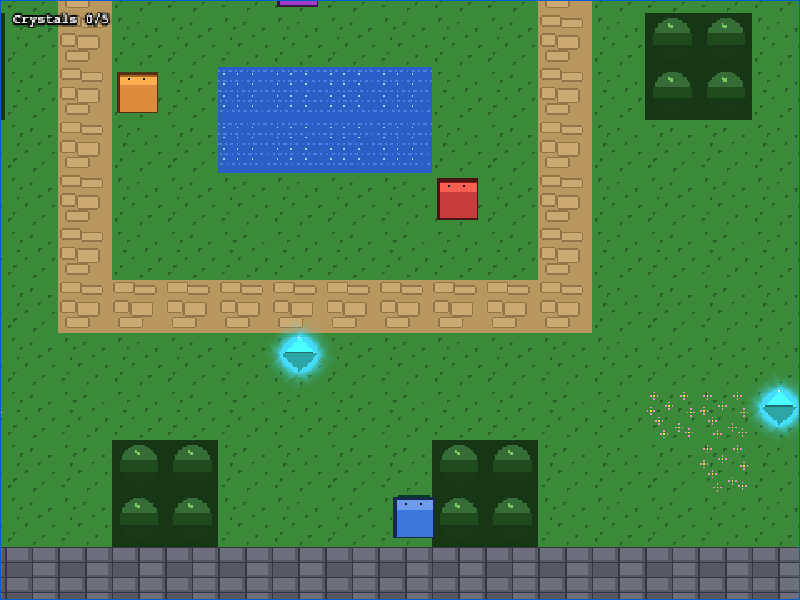
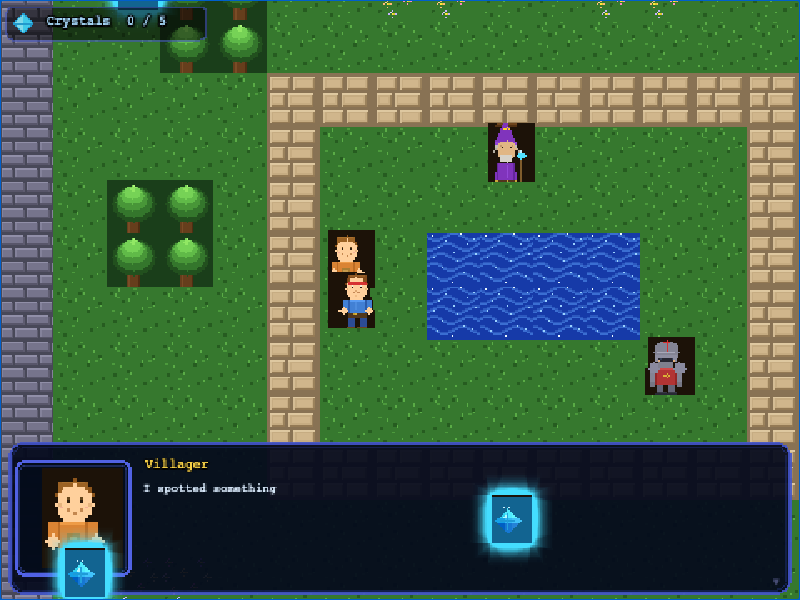
docs: update crystal-village screenshot to show portrait dialogue + improved sprites

diff --git a/examples/README.md b/examples/README.md
@@ -36,7 +36,9 @@ node skills/gap-checker/scripts/dynamic_check.mjs examples/crystal-village --por
 
 ## Visual notes
 
-`slime-slayer` and `star-defender` use **procedural placeholder sprites** (flat-color cells) — that's what game-exa generates without an image-generation API key, or with `--placeholder-sprites`. `pixel-pete` and `crystal-village` have hand-crafted pixel-art tilesets.
+`slime-slayer` and `star-defender` use **procedural placeholder sprites** (flat-color cells) — that's what game-exa generates without an image-generation API key, or with `--placeholder-sprites`.
+
+`crystal-village` and `pixel-pete` have hand-crafted procedural pixel-art tilesets and entity sprites. `crystal-village` features full humanoid characters (hero, elder, villager, guard) with a portrait dialogue system — pressing Z near an NPC opens a typewriter dialogue box with their sprite portrait on the left.
 
 To regenerate with real **GPT Image 2** (`gpt-image-2`) assets, set `FAL_KEY` (or `OPENAI_API_KEY`) and re-run:
 

diff --git a/README.md b/README.md
@@ -10,7 +10,7 @@ All screenshots taken live from headless Chromium via the gap-checker dynamic la
 
 | Game | Genre | Screenshot |
 |------|-------|-----------|
-| **Crystal Village** — RPG hero explores a magical village, chats with NPCs, collects 5 glowing crystals | RPG Overworld | ![crystal-village](docs/screenshots/crystal-village.png) |
+| **Crystal Village** — RPG hero explores a magical village, chats with NPCs (portrait dialogue), collects 5 glowing crystals | RPG Overworld | ![crystal-village](docs/screenshots/crystal-village.png) |
 | **Pixel Pete** — Jumpy hero collecting coins through floating platforms | Platformer | ![pixel-pete](docs/screenshots/pixel-pete.png) |
 | **Void Breaker** — Geometry Wars-style arena shooter; survive 10 neon waves | Arena shooter | ![void-breaker](docs/screenshots/void-breaker.png) |
 | **Slime Slayer** — Pixel knight collecting gems while dodging slimes | Top-down adventure | ![slime-slayer](docs/screenshots/slime-slayer.png) |
